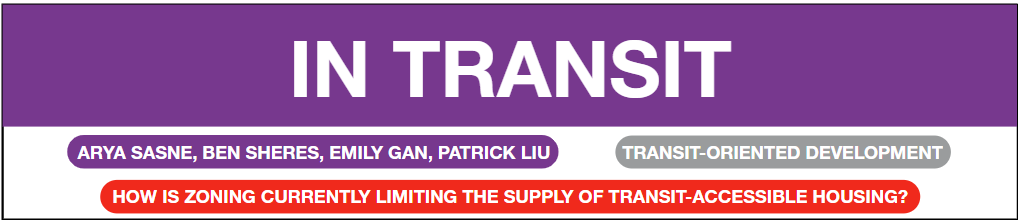
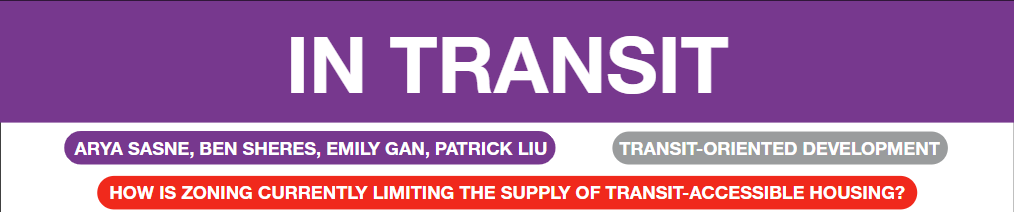
Styling changes

Changed region(s): [[0.0, 0.0, 1.0, 1.0], [0.2751, 0.1698, 0.7337, 0.4528]]

diff --git a/src/routes/+page.svelte b/src/routes/+page.svelte
@@ -2,9 +2,9 @@
     import * as d3 from "d3";
     import {onMount} from "svelte";
     import bars from "$lib/Bars.svelte";
-    import Bars from "../lib/Bars.svelte";
     import UnusedHousing from "$lib/unused_housing.svelte";
     import Timeline from "$lib/timeline.svelte";
+    // import '../../static/style.css'
 
     let data = [];
     let width = 400;
@@ -22,8 +22,9 @@
         })))
 </script>
 
+
 <img src ="images/Title.png" alt="heading">
-<h1 class="question">HOW IS ZONING CURRENTLY LIMITING THE SUPPLY OF TRANSIT-ACCESSIBLE HOUSING?</h1>
+<!-- <h1 class="question">HOW IS ZONING CURRENTLY LIMITING THE SUPPLY OF TRANSIT-ACCESSIBLE HOUSING?</h1> -->
 <h1>Introduction</h1>
 <p>The housing crisis in Massachusetts is at an all-time high, and as demand for housing continues to grow, 
     the government is taking steps to spur more construction.
@@ -86,16 +87,35 @@
 <h1>Unbuilt Housing Units in MBTA Buffer Zones</h1>
 <UnusedHousing/>
 <style>
-    h1{
-        font-family: helvetica;
-    }
+    @import '../../static/style.css';
+    :root {
+  --blue: #2F5DA6;
+  --green: #008150;
+  --orange: #FD8A03;
+  --red: #FA2D27;
+  --silver: #9A9C9D;
+  --purple: #7B388C;
+}
+
+/* body {
+  background-color: rgb(32, 32, 32);
+  color: white;
+  margin: 3%;
+} */
+
+
+
+h1 {
+  font-family: helvetica;
+  text-align: center;
+  background-color: var(--green);
+  border-radius: 4px;
+}
+
     h2{
         font-family: helvetica;
-    }
-
-    img{
-        width:600px;
-        margin-left: auto;
-        margin-right:auto;
+        text-align: center;
+        background-color: var(--blue);
+        border-radius: 4px;
     }
 </style>

diff --git a/src/app.html b/src/app.html
@@ -1,12 +1,12 @@
 <!DOCTYPE html>
 <html lang="en">
-	<head>
-		<meta charset="utf-8" />
-		<link rel="icon" href="%sveltekit.assets%/favicon.png" />
-		<meta name="viewport" content="width=device-width" />
-		%sveltekit.head%
-	</head>
-	<body data-sveltekit-preload-data="hover">
-		<div style="display: contents">%sveltekit.body%</div>
-	</body>
+  <head>
+    <meta charset="utf-8" />
+    <link rel="icon" href="%sveltekit.assets%/favicon.png" />
+    <meta name="viewport" content="width=device-width" />
+    %sveltekit.head%
+  </head>
+  <body data-sveltekit-preload-data="hover">
+    <div style="display: contents">%sveltekit.body%</div>
+  </body>
 </html>

diff --git a/static/style.css b/static/style.css
@@ -1,0 +1,18 @@
+img {
+  border-radius: 4px;
+  display: block;
+  margin: auto;
+  width: min(100%, 600px);
+}
+
+h1 {
+  font-family: helvetica;
+  text-align: center;
+  background-color: var(--green);
+}
+
+body {
+  background-color: rgb(32, 32, 32);
+  color: white;
+  margin: 3%;
+}
